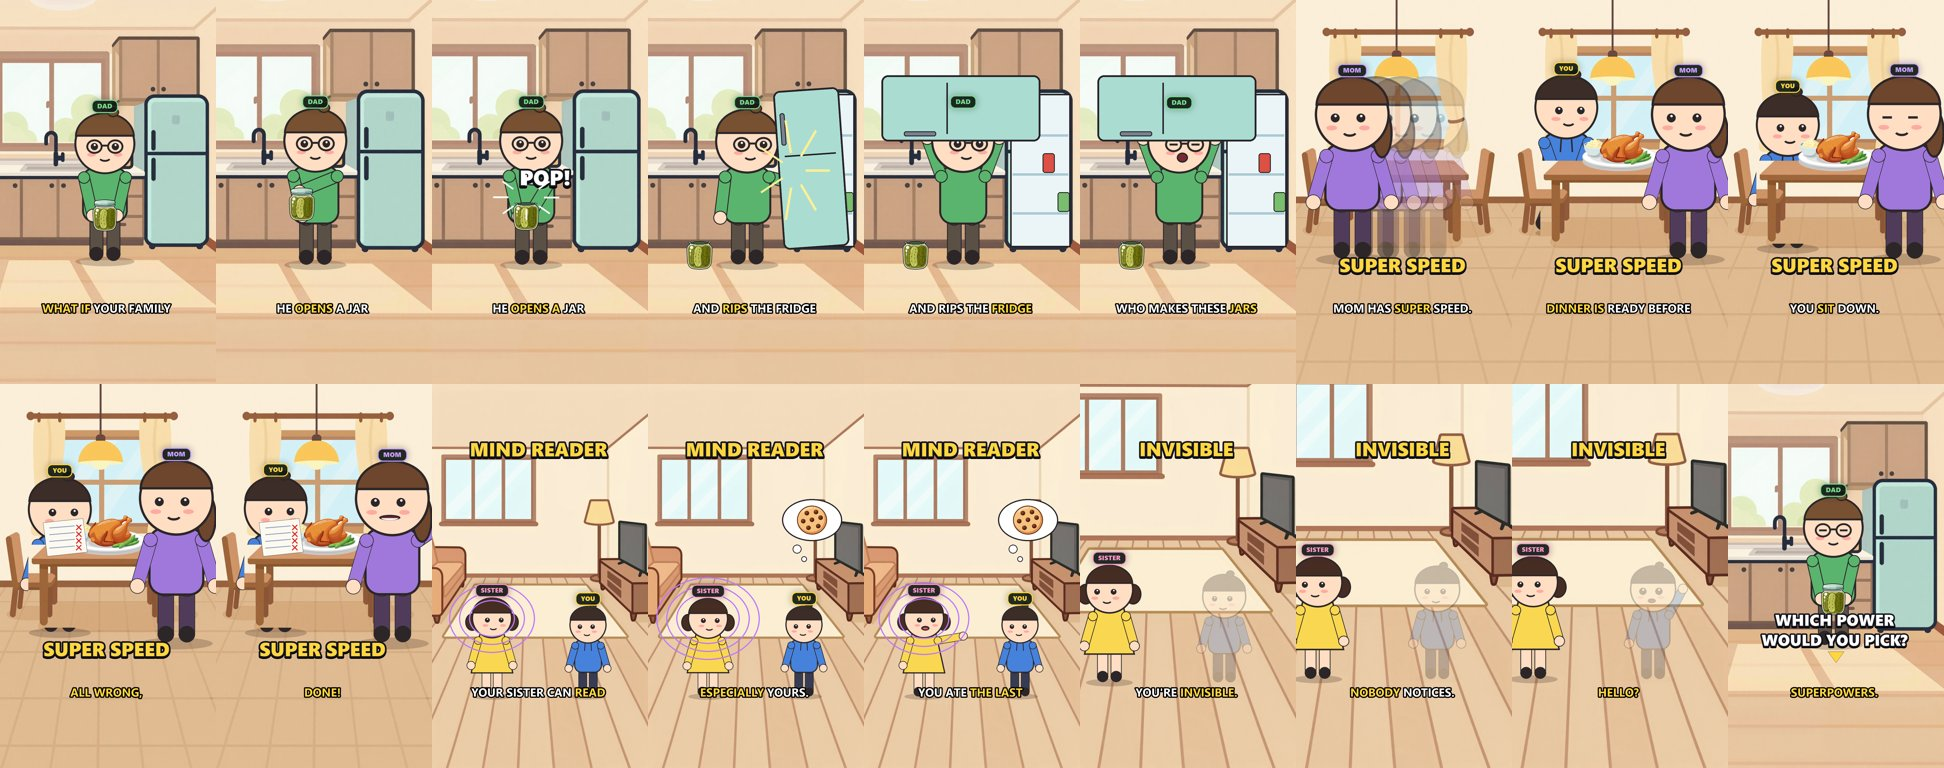
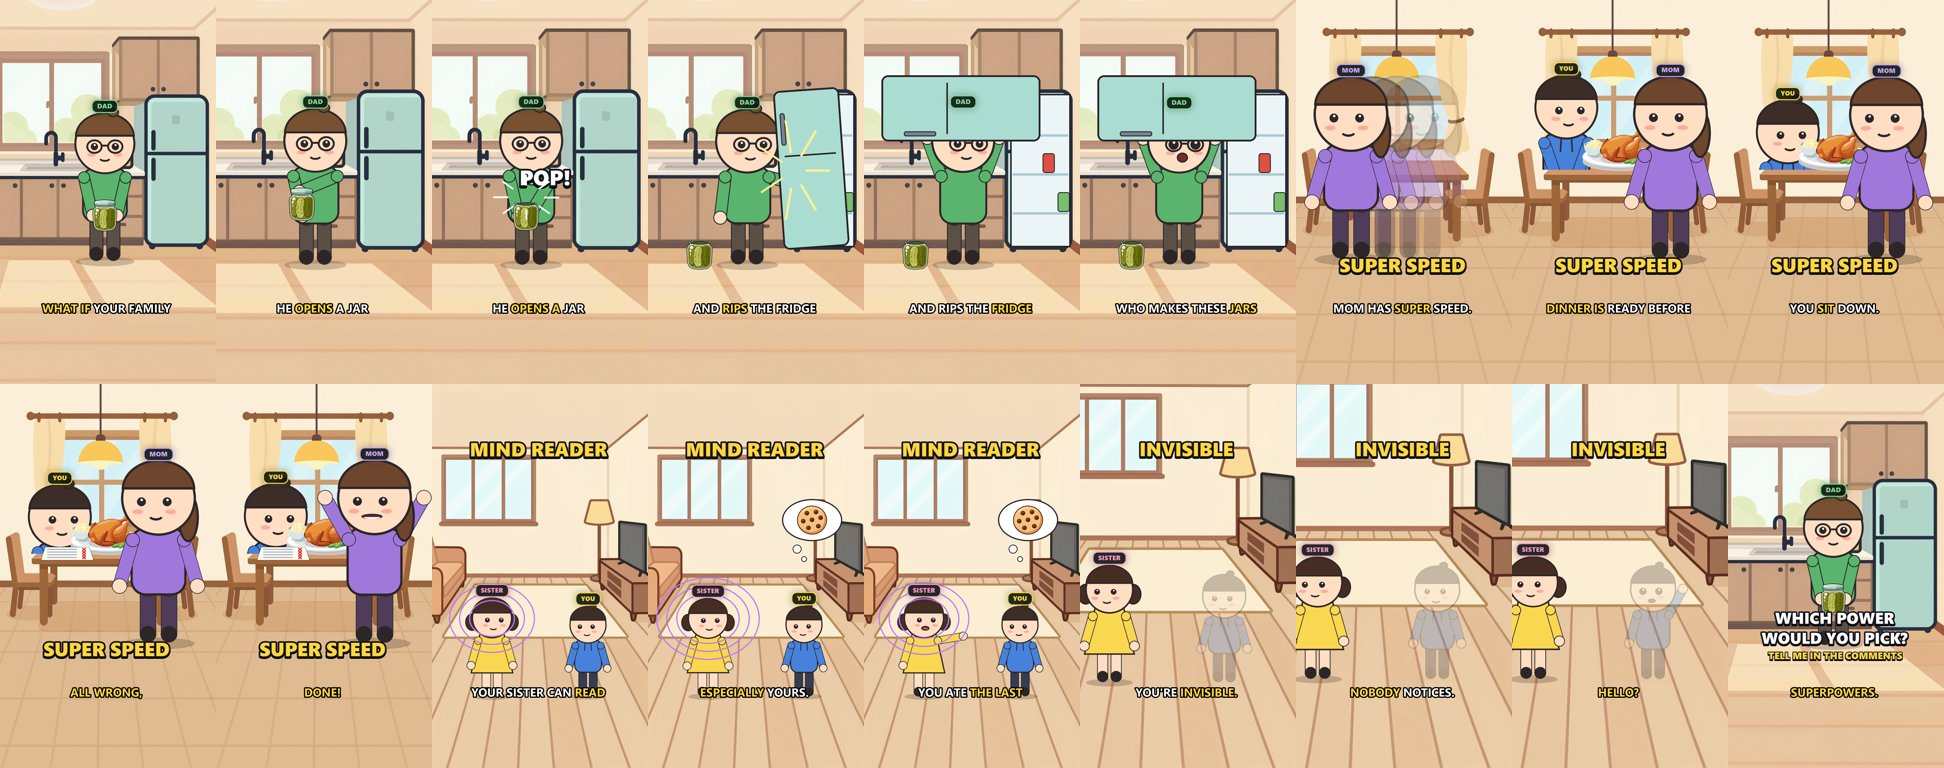
marketdoodle: superkrachten - jij zit echt achter de tafel (lijf niet meer weg), huiswerk plat op tafel, mama juicht bij Done, eindtekst i.p.v. losse pijl

Changed region(s): [[0.679, 0.0625, 1.0, 0.3438], [0.0, 0.5625, 0.2469, 0.8438], [0.8951, 0.7812, 0.9877, 0.875]]

diff --git a/kanalen/marketdoodle/short-krachten/maak_short.py b/kanalen/marketdoodle/short-krachten/maak_short.py
@@ -173,7 +173,7 @@ def emotie(t, nu):
     tekst = Z[nu][2]
     if any(tekst.startswith(f_) for f_ in SCHRIK): return "schrik"
     return None
-ACTIE = {I_MOM: "duim", I_SIS: "wijs", I_YOU: "zwaai"}     # papa: armen per moment (papa_armen)
+ACTIE = {I_MOM: "juich", I_SIS: "wijs", I_YOU: "zwaai"}     # papa: armen per moment (papa_armen)
 NAAM["mom"] = ("MOM", (200, 160, 255))
 
 # ---------- handen (zelfde maten als pop_short.poppetje: schouder x±44s, sch = y-175s, arm 82s, hoek 0 = omlaag) ----------
@@ -250,28 +250,28 @@ def keuken_actie(img, t, n):
 TAFEL_Y = 790
 TAFEL = (180, 765, 880, 1160)                              # stuk achtergrond met tafel (vóór jou geplakt = jij zit achter de tafel)
 def mama_x(t):
-    if T_SPEED <= t < T_DINER + 0.3: return 540 + 330 * math.sin((t - T_SPEED) * 13)
-    return 885
+    if T_SPEED <= t < T_DINER + 0.3: return 520 + 310 * math.sin((t - T_SPEED) * 13)
+    return 800                                             # ruimte rechts voor haar duim omhoog ("Done!")
 def jij_eet(t):
     """x, y van jou in de eetkamer (loopt binnen, gaat zitten achter de tafel)"""
     if t < T_DINER: return None
     a = ps.ease(min(1, (t - T_DINER) / 1.0)); x = -80 + (330 + 80) * a
-    y = 1105 + 75 * ps.ease(min(1, max(0, t - T_SIT) / 0.3))
+    y = 1105 + 110 * ps.ease(min(1, max(0, t - T_SIT) / 0.3))          # zakt achter het tafelblad = gaat zitten
     return x, y, (t - T_DINER) * 2.2 if a < 1 else None
 def eten(img, t):
     if t >= T_DINER + 0.3:
         s_ = sprite("diner", 360); img.paste(s_, (int(560 - s_.width / 2), int(TAFEL_Y + 25 - s_.height)), s_)
         WACHT.plaats("diner", (560 - s_.width / 2, TAFEL_Y + 25 - s_.height, 560 + s_.width / 2, TAFEL_Y + 25), op="beeld")
     if t >= T_HUISWERK + 0.2:
-        d = ImageDraw.Draw(img); x0, y0 = 250, TAFEL_Y - 130
-        d.polygon(((x0, y0), (x0 + 190, y0 - 20), (x0 + 210, y0 + 140), (x0 + 20, y0 + 160)), fill=(252, 250, 240), outline=INK)
-        for k_ in range(4): d.line((x0 + 30, y0 + 25 + k_ * 32, x0 + 150, y0 + 15 + k_ * 32), fill=(150, 160, 190), width=5)
+        d = ImageDraw.Draw(img); x0, y0 = 240, TAFEL_Y - 14                  # plat op het tafelblad, vóór je (niet voor je gezicht)
+        d.polygon(((x0 + 20, y0), (x0 + 230, y0), (x0 + 250, y0 + 62), (x0, y0 + 62)), fill=(252, 250, 240), outline=INK)
+        for k_ in range(4): d.line((x0 + 30, y0 + 10 + k_ * 13, x0 + 170, y0 + 10 + k_ * 13), fill=(150, 160, 190), width=4)
         if t >= T_FOUT:
             for k_ in range(4):
-                cx, cy = x0 + 170, y0 + 22 + k_ * 32
-                d.line((cx - 12, cy - 12, cx + 12, cy + 12), fill=(220, 40, 40), width=6); d.line((cx - 12, cy + 12, cx + 12, cy - 12), fill=(220, 40, 40), width=6)
+                cx, cy = x0 + 205, y0 + 11 + k_ * 13
+                d.line((cx - 8, cy - 6, cx + 8, cy + 6), fill=(220, 40, 40), width=5); d.line((cx - 8, cy + 6, cx + 8, cy - 6), fill=(220, 40, 40), width=5)
             STAAT.add("fout")
-        WACHT.plaats("huiswerk", (x0, y0 - 20, x0 + 210, y0 + 160), op="beeld")
+        WACHT.plaats("huiswerk", (x0, y0, x0 + 250, y0 + 62), op="beeld")
 
 # ---------- woonkamer ----------
 def gedachte(img, x, y, t):
@@ -317,7 +317,7 @@ TW = Tekstwachter(Z, ZIE, lijf=LIJF)
 from momentwachter import Momentwachter
 MW = Momentwachter(SW, {"opens a jar": ["deksel-los"], "rips the fridge door off": ["deur-los"], "who makes these jars so weak": ["deur-boven"],
                         "super speed": ["zoef"], "dinner is ready": ["diner"], "sit down": ["zitten"], "your homework": ["huiswerk"], "all wrong": ["fout"],
-                        "done": ["mom:duim"], "read minds": ["gloed"], "especially yours": ["gedachte"], "you ate the last cookie": ["sis:wijs"],
+                        "done": ["mom:juich"], "read minds": ["gloed"], "especially yours": ["gedachte"], "you ate the last cookie": ["sis:wijs"],
                         "you're invisible": ["doorzichtig"], "nobody notices": ["!sis:wijs"], "hello anybody": ["you:zwaai"]})
 EIND_VRAAG = "WHICH POWER WOULD YOU PICK? 👇"
 EINDTEKSTEN = set()
@@ -335,8 +335,12 @@ def frame(t):
     if n == "eetkamer":
         jj = jij_eet(t_b)
         if jj:
-            koppen.update(teken(img, [("you", jj[0], jj[1], schaal("eetkamer", "you", 1105), None, 0.6, jj[2])], t_b, nu))
-            img.paste(bg("eetkamer").crop(TAFEL), (TAFEL[0], TAFEL[1]))                 # tafel vóór jou: je zit erachter
+            # 28 nov (eigenaar: "achter de tafel poppetje is helemaal weg"): niet meer een stuk achtergrond over je heen plakken
+            # (dat wiste je lijf uit), maar alleen je onderlijf wegknippen achter het tafelblad: je zit aan tafel, bovenlijf zichtbaar
+            laag = Image.new("RGBA", (W, H), (0, 0, 0, 0))
+            koppen.update(teken(laag, [("you", jj[0], jj[1], schaal("eetkamer", "you", 1105), None, 0.6, jj[2])], t_b, nu))
+            a_ = laag.getchannel("A"); ImageDraw.Draw(a_).rectangle((0, TAFEL_Y + 18, TAFEL[2], H), fill=0); laag.putalpha(a_)
+            img.paste(laag, (0, 0), laag)
             if t_b >= T_SIT + 0.15: STAAT.add("zitten")
         eten(img, t_b)
         mx = mama_x(t_b); ms = schaal("eetkamer", "mom", 1230)
@@ -371,9 +375,9 @@ def frame(t):
         if n == "woonkamer" and T_LEZEN <= t_b < T_ONZ: kop(img, "MIND READER", W / 2, 300, 96, KL["geel"], ps.pop((t_b - T_LEZEN) / 0.25))
         if n == "woonkamer" and T_ONZ <= t_b: kop(img, "INVISIBLE", W / 2, 300, 96, KL["geel"], ps.pop((t_b - T_ONZ) / 0.25))
         if t_b >= EIND - 3.2:
-            p_ = ps.pop((t_b - (EIND - 3.2)) / 0.3); kop(img, "WHICH POWER", W / 2, 1160, 78, (255, 255, 255), p_); kop(img, "WOULD YOU PICK?", W / 2, 1260, 78, (255, 255, 255), p_)
-            EINDTEKSTEN.add(EIND_VRAAG); d = ImageDraw.Draw(img); ax = W / 2; ay = 1330 + 10 * math.sin(t * 8)
-            d.polygon(((ax - 40, ay), (ax + 40, ay), (ax, ay + 55)), fill=KL["geel"], outline=(20, 20, 30))
+            # 28 nov: de losse gele pijl was onduidelijk -> gewoon zeggen waar het antwoord moet: in de reacties
+            p_ = ps.pop((t_b - (EIND - 3.2)) / 0.3); kop(img, "WHICH POWER", W / 2, 1150, 78, (255, 255, 255), p_); kop(img, "WOULD YOU PICK?", W / 2, 1250, 78, (255, 255, 255), p_)
+            kop(img, "TELL ME IN THE COMMENTS", W / 2, 1345, 48, KL["geel"], p_); EINDTEKSTEN.add(EIND_VRAAG)
         if t <= Z[-1][1] + 0.3: ondertitel(img, t)
     WACHT.einde(gezichten={k_: (v[0], v[1] + 60 * v[2], 60 * v[2]) for k_, v in GEZ.items()})
     TW.zie(t, nu_i(t), voorwerpen=WACHT.dit_frame, teksten=list(SCHERM), koppen={k_: (v[0], v[1] + 60 * v[2]) for k_, v in GEZ.items()},
